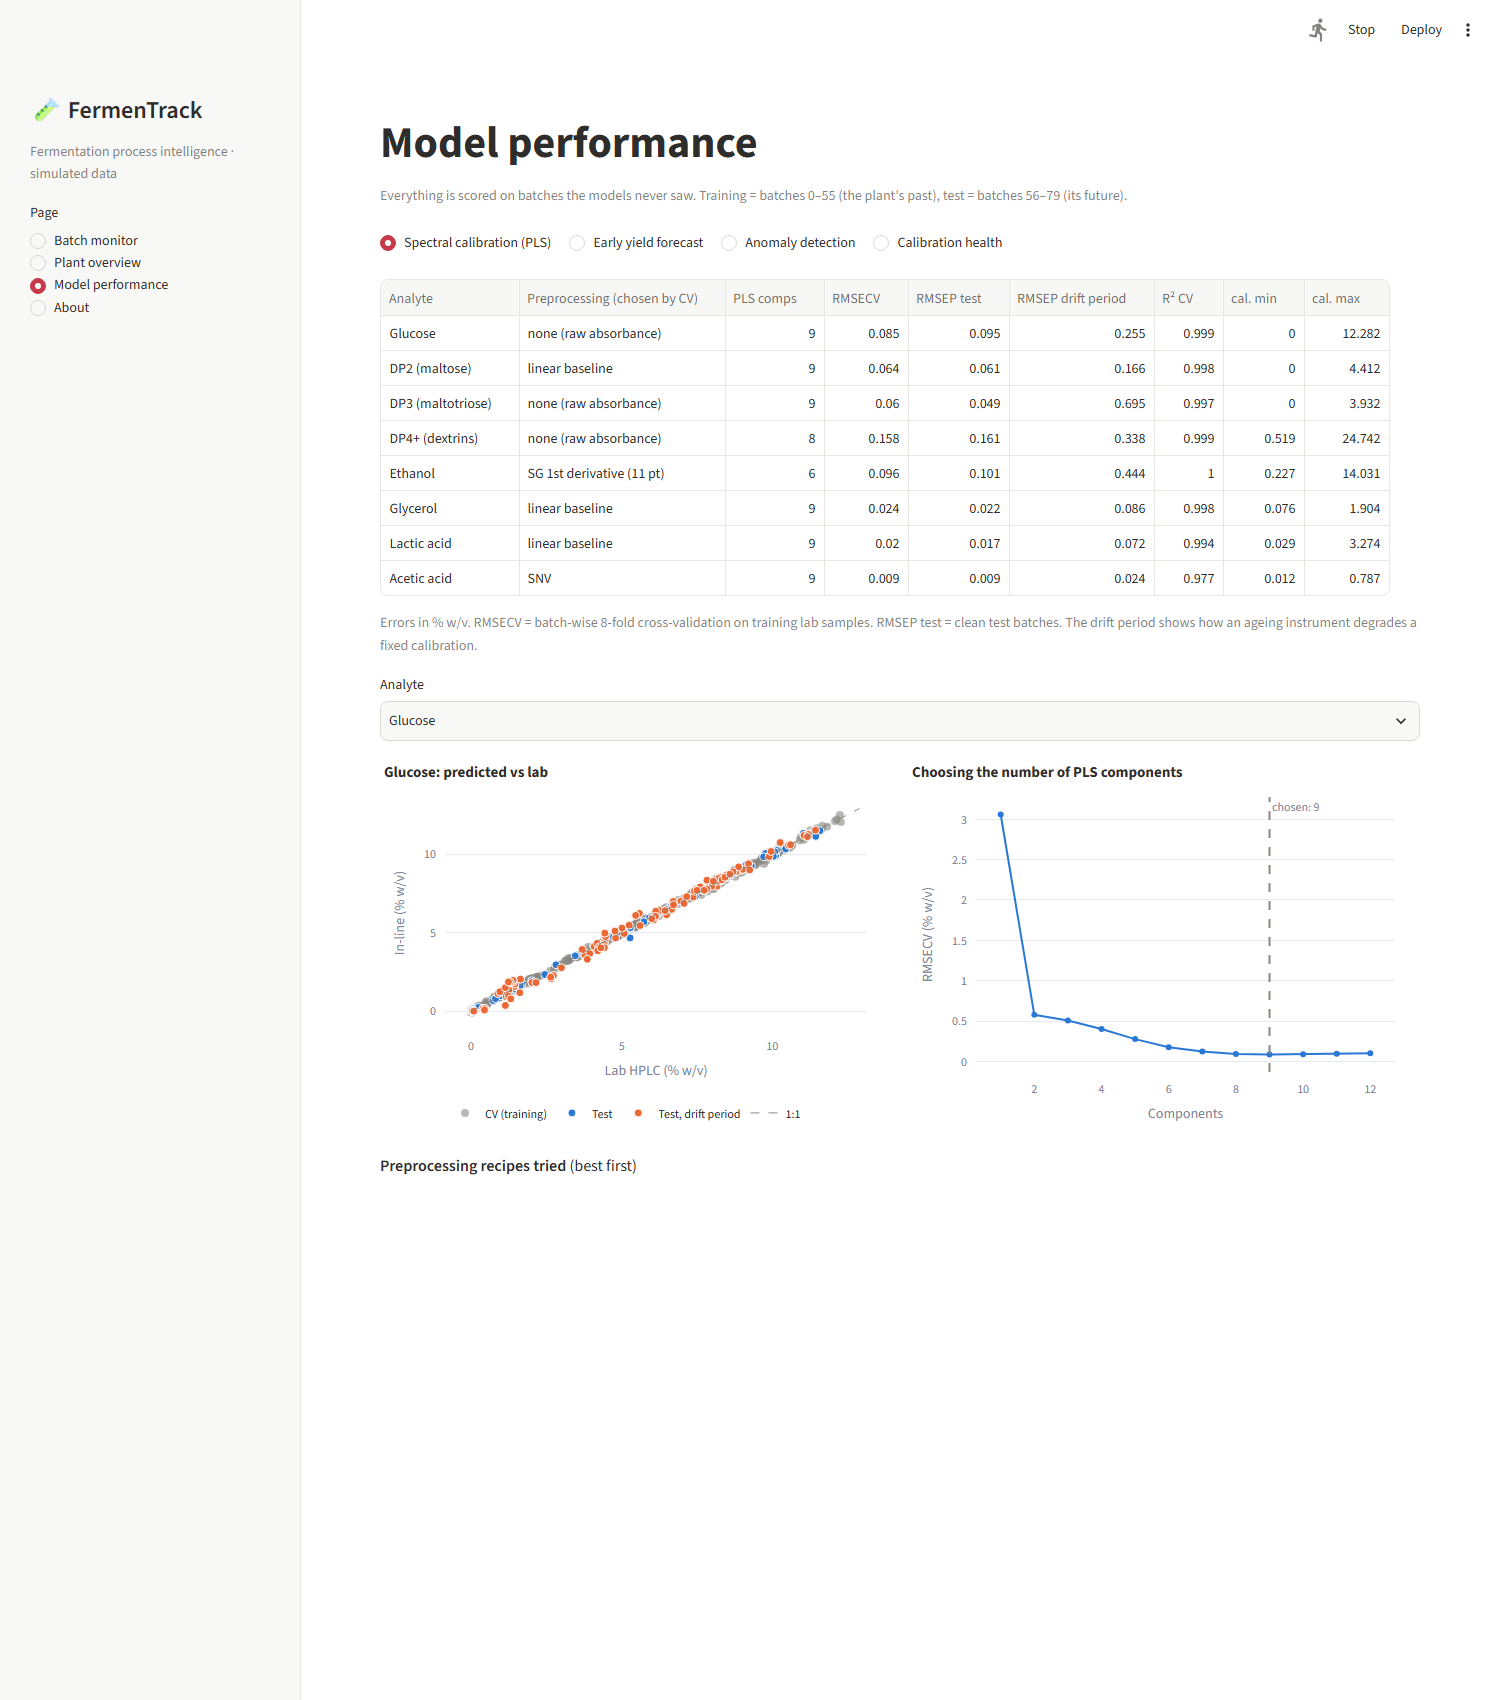
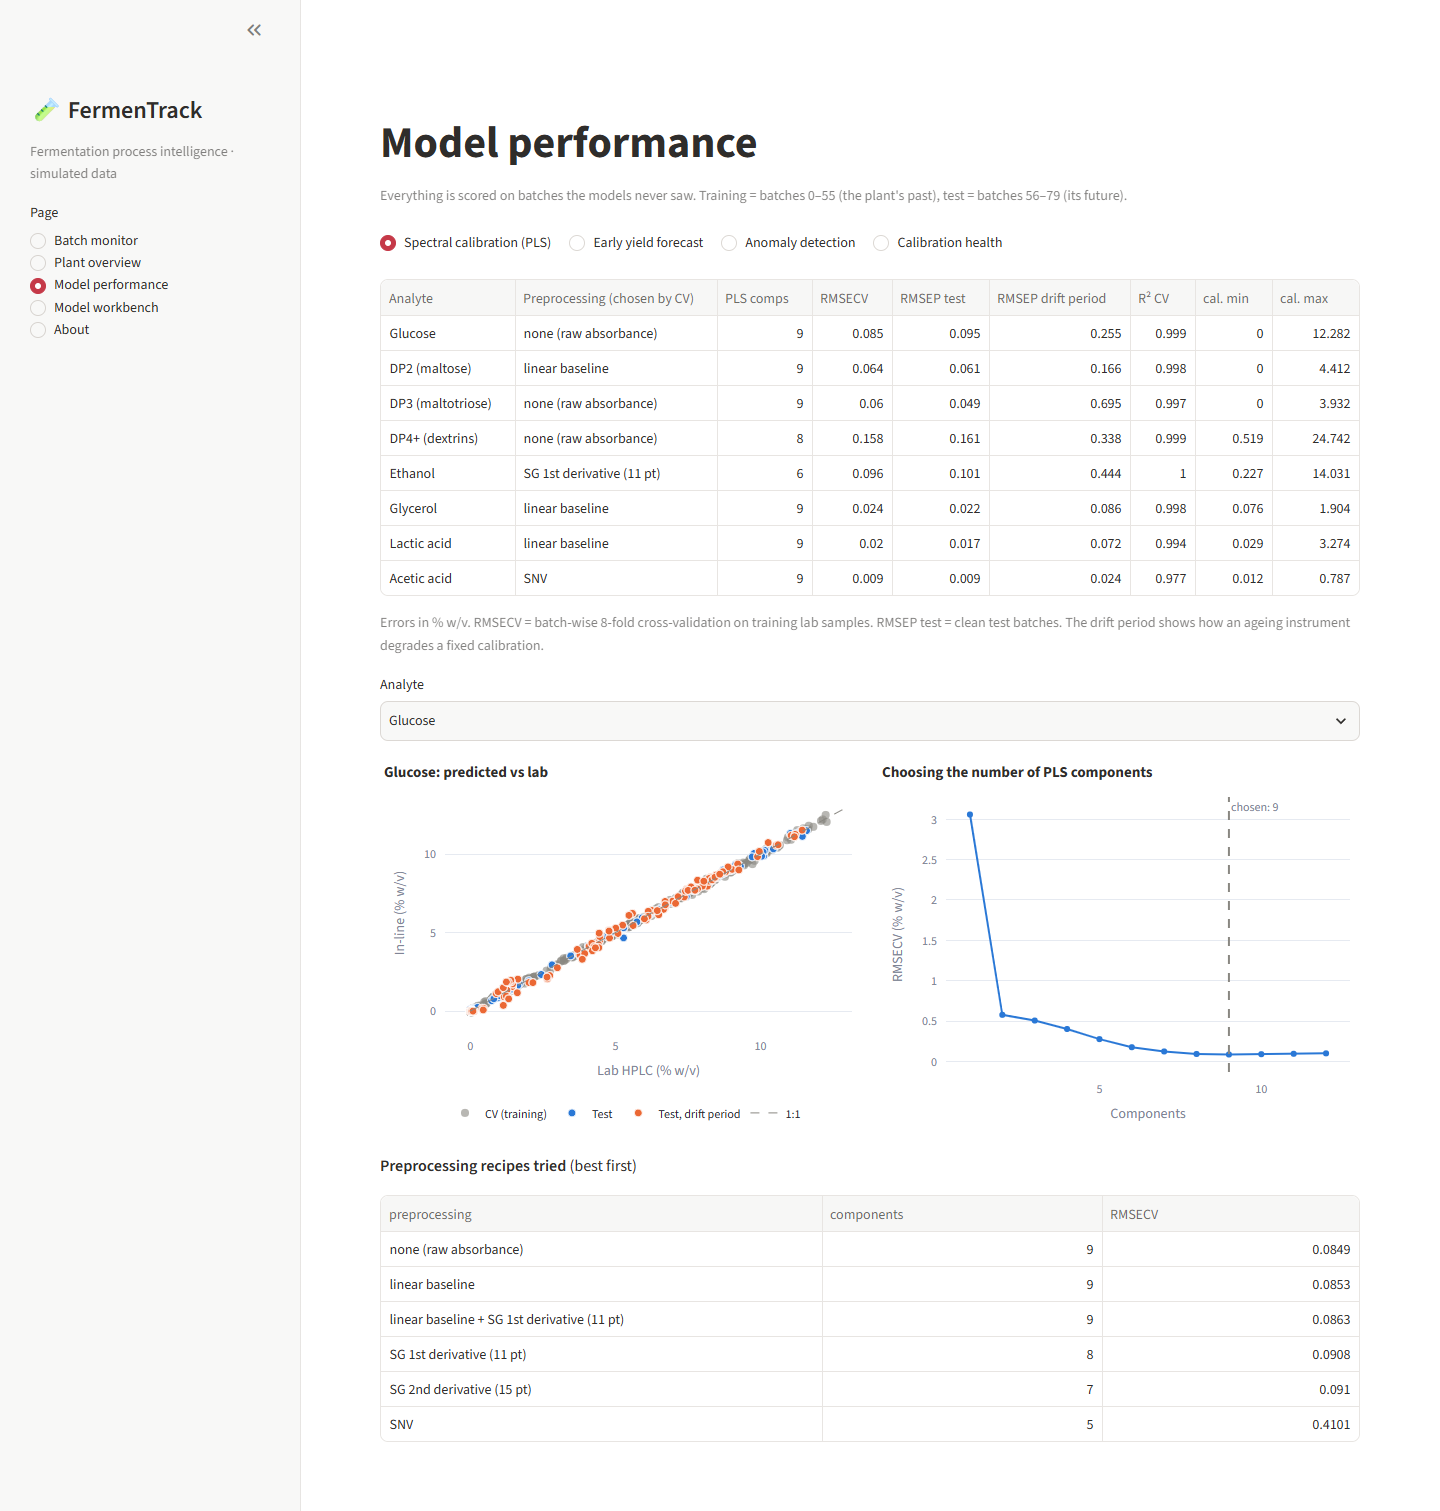
Retake all screenshots fully loaded; add workbench screenshots; refine outlier rules
- docs/make_screenshots.py: Playwright + installed Edge, waits until every page has
  finished, clicks through the workbench journey, uses a temporary model registry
- All dashboard screenshots retaken (old ones were captured mid-load and outdated)
- Workbench screenshots added to README and user guide
- Outliers: high T² but well predicted = keep (warning only); residual limit scales
  with sample count; Q outlier only above 2x its limit; table shows T²/Q as x limit
- Registry path shown without personal folder names; FERMENTRACK_REGISTRY env var
- Check-history chart uses whole check numbers

diff --git a/docs/make_screenshots.py b/docs/make_screenshots.py
@@ -1,0 +1,171 @@
+"""Regenerate every screenshot in docs/screenshots/.
+
+    python docs/make_screenshots.py
+
+Starts its own copies of the dashboard and the workbench (ports 8611 / 8612, with a
+temporary model registry so your real models are not touched), opens them in the
+Microsoft Edge that comes with Windows (via Playwright), waits until each page has
+completely finished running, clicks through the workbench where a step needs
+results, and saves full-page PNGs.
+
+Needs:  pip install playwright   (no extra browser download: it uses the installed Edge)
+"""
+from __future__ import annotations
+
+import os
+import subprocess
+import sys
+import tempfile
+import time
+import urllib.request
+from pathlib import Path
+
+from playwright.sync_api import Page, sync_playwright
+
+ROOT = Path(__file__).resolve().parents[1]
+OUT = ROOT / "docs" / "screenshots"
+DASH, WB = "http://localhost:8611", "http://localhost:8612"
+WIDTH = 1440
+
+
+# ---------------------------------------------------------------------------
+# servers
+# ---------------------------------------------------------------------------
+def start_server(script: str, port: int, env) -> subprocess.Popen:
+    cmd = [sys.executable, "-m", "streamlit", "run", str(ROOT / script), "--server.headless", "true",
+           "--server.port", str(port), "--browser.gatherUsageStats", "false",
+           "--client.toolbarMode", "minimal", "--theme.base", "light"]
+    proc = subprocess.Popen(cmd, cwd=ROOT, env=env, stdout=subprocess.DEVNULL, stderr=subprocess.DEVNULL)
+    for _ in range(120):
+        try:
+            urllib.request.urlopen(f"http://localhost:{port}/_stcore/health", timeout=1)
+            return proc
+        except Exception:
+            time.sleep(0.5)
+    proc.kill()
+    raise RuntimeError(f"{script} did not start")
+
+
+# ---------------------------------------------------------------------------
+# waiting and capturing
+# ---------------------------------------------------------------------------
+def wait_ready(page: Page, timeout=180):
+    """Wait until Streamlit has finished running (no 'Running...' widget for 2 s in a row)."""
+    page.wait_for_selector('[data-testid="stApp"]', timeout=timeout * 1000)
+    end, quiet_since = time.time() + timeout, None
+    while time.time() < end:
+        running = page.locator('[data-testid="stStatusWidget"]').count() > 0
+        stale = page.locator('[data-stale="true"]').count() > 0
+        if running or stale:
+            quiet_since = None
+        elif quiet_since is None:
+            quiet_since = time.time()
+        elif time.time() - quiet_since > 2.0:
+            break
+        time.sleep(0.25)
+    page.wait_for_timeout(1500)          # let plotly finish drawing
+
+
+def shot(page: Page, name: str):
+    """Full-height screenshot.
+
+    Streamlit scrolls inside an inner container, so a normal full-page capture only shows
+    one screen. Instead: make the window very tall so everything is drawn, measure where
+    the content really ends, shrink the window to exactly that height, then capture.
+    """
+    page.set_viewport_size({"width": WIDTH, "height": 5000})
+    page.wait_for_timeout(1500)
+    wait_ready(page, 60)
+    bottom = page.evaluate("""() => {
+        const c = document.querySelector('[data-testid="stMainBlockContainer"]');
+        if (!c) return document.body.scrollHeight;
+        let b = 0;
+        c.querySelectorAll('*').forEach(e => {        // only what is really visible
+            if (!e.checkVisibility({checkOpacity: true, checkVisibilityCSS: true})) return;
+            const r = e.getBoundingClientRect();
+            if (r.height > 0) b = Math.max(b, r.bottom); });
+        return Math.ceil(b);
+    }""")
+    page.set_viewport_size({"width": WIDTH, "height": min(max(bottom + 60, 900), 5000)})
+    page.mouse.move(5, 5)                 # keep chart toolbars / tooltips out of the picture
+    page.wait_for_timeout(2000)
+    wait_ready(page, 60)
+    page.screenshot(path=str(OUT / f"{name}.png"))
+    page.set_viewport_size({"width": WIDTH, "height": 900})
+    print("saved", name, bottom)
+
+
+def goto(page: Page, url: str):
+    page.goto(url)
+    wait_ready(page)
+
+
+def click(page: Page, text: str, exact=True):
+    page.get_by_text(text, exact=exact).first.click()
+    wait_ready(page)
+
+
+def button(page: Page, label: str):
+    page.get_by_role("button", name=label).first.click()
+    wait_ready(page)
+
+
+# ---------------------------------------------------------------------------
+def main():
+    OUT.mkdir(parents=True, exist_ok=True)
+    env = dict(os.environ, FERMENTRACK_REGISTRY=tempfile.mkdtemp(prefix="ft_registry_"))
+    servers = [start_server("app.py", 8611, env), start_server("workbench_app.py", 8612, env)]
+    try:
+        with sync_playwright() as p:
+            browser = p.chromium.launch(channel="msedge")
+            page = browser.new_page(viewport={"width": WIDTH, "height": 900})
+
+            # --- dashboard ---------------------------------------------------------
+            goto(page, f"{DASH}/?page=monitor&batch=68&t=36")
+            shot(page, "batch_monitor")
+            goto(page, f"{DASH}/?page=monitor&batch=62&t=40")
+            shot(page, "probe_fouling")
+            goto(page, f"{DASH}/?page=overview")
+            shot(page, "plant_overview")
+            goto(page, f"{DASH}/?page=performance&section=pls")
+            shot(page, "pls_calibration")
+            goto(page, f"{DASH}/?page=performance&section=yield")
+            shot(page, "yield_forecast")
+
+            # --- workbench ---------------------------------------------------------
+            goto(page, f"{WB}/")                                   # data step + format help
+            shot(page, "wb_data")
+            for step in ["spectra", "split"]:
+                goto(page, f"{WB}/?demo=1&step={step}")
+                shot(page, f"wb_{step}")
+
+            # one user journey in one session: find outliers -> remove them -> look at the
+            # cleaned model -> robustness -> save -> check healthy data -> check drifting data
+            goto(page, f"{WB}/?demo=1&step=outliers")
+            shot(page, "wb_outliers")
+            button(page, "Exclude ticked samples and re-fit")
+            click(page, "4 Model")
+            shot(page, "wb_model")
+            click(page, "6 Robustness")
+            for b in ["Run perturbation test", "Run resampling test", "Run y-randomisation"]:
+                button(page, b)
+            shot(page, "wb_robustness")
+            click(page, "7 Save & update")
+            button(page, "Save as new version")
+            click(page, "8 Auto-check")
+            click(page, "ftir_new_lab_ok.xlsx")
+            button(page, "Run check")
+            click(page, "ftir_new_lab_drift.xlsx")
+            click(page, "Allow automatic update (saves a better version if action is needed)")
+            button(page, "Run check")
+            shot(page, "wb_autocheck")
+            click(page, "7 Save & update")
+            shot(page, "wb_registry")
+            browser.close()
+    finally:
+        for s in servers:
+            s.terminate()
+
+
+if __name__ == "__main__":
+    main()

diff --git a/fermentrack/workbench/diagnostics.py b/fermentrack/workbench/diagnostics.py
@@ -10,8 +10,13 @@ Three independent questions, each with its own statistic:
                   describe at all? (contamination, fouling, wrong sample, air bubble)
 * Studentised residual - is the *reference value* suspicious? The prediction
                   (from cross-validation, i.e. without that sample) disagrees with
-                  the lab value by more than ~3 typical errors: a typing mistake
-                  or a bad lab measurement.
+                  the lab value by more than ~3 typical errors (more for large sets,
+                  where a few such values occur by chance): a typing mistake or a
+                  bad lab measurement.
+
+Outlier = strong evidence (residual beyond the limit, or Q more than twice its limit,
+or extreme AND badly predicted). A sample that is extreme but predicted well is
+kept: it is valuable because it extends the calibration range.
 
 Limits are 95 % (warning) and 99 % (action). A sample above the action limit is
 a candidate for removal, but the decision stays with the user: remove only with
@@ -81,29 +86,41 @@ def sample_diagnostics(model, X_raw, y=None, ids=None, use_cv=False) -> pd.DataF
 
     reasons, levels = [], []
     lo, hi = d["y_range"]
+    # Residual limit that accounts for the number of samples checked: with 240 samples a few
+    # |z| > 3 happen by chance alone (Bonferroni, 5 % family-wise, never below 3).
+    z_crit = max(3.0, float(sstats.norm.ppf(1 - 0.025 / max(len(out), 1))))
     for i in range(len(out)):
         r, level = [], 0
-        if t2[i] > d["t2_lim99"]:
-            r.append(f"extreme in model space (T² {t2[i]:.1f} > 99% limit {d['t2_lim99']:.1f})")
-            level = 2
+        # A high T² alone is NOT a reason to remove a sample: if it is predicted well it is an
+        # influential but valuable sample (it extends the range). It only becomes an outlier
+        # together with a large residual (checked below).
+        extreme = t2[i] > d["t2_lim99"]
+        if extreme:
+            r.append(f"extreme in model space (T² {t2[i] / d['t2_lim99']:.1f}x the 99% limit)")
+            level = max(level, 1)
         elif t2[i] > d["t2_lim95"]:
             r.append("somewhat extreme (T² above 95% limit)")
             level = max(level, 1)
-        if q[i] > d["q_lim99"]:
+        if q[i] > 2 * d["q_lim99"]:
             r.append(f"spectrum not explained by the model (Q {q[i] / d['q_lim99']:.1f}x the 99% limit)")
             level = 2
+        elif q[i] > d["q_lim99"]:
+            r.append(f"unusual spectral residual (Q {q[i] / d['q_lim99']:.1f}x the 99% limit)")
+            level = max(level, 1)
         elif q[i] > d["q_lim95"]:
             r.append("unusual spectral residual (Q above 95% limit)")
             level = max(level, 1)
         if y is not None and not np.isnan(y[i]):
             s = out["stud_residual"].iat[i]
-            if abs(s) > 3:
+            if abs(s) > z_crit:
                 r.append(f"reference value disagrees with spectrum ({s:+.1f} typical errors) - "
                          f"check lab value / sample label")
                 level = 2
             elif abs(s) > 2.5:
                 r.append("large residual (> 2.5 typical errors)")
-                level = max(level, 1)
+                level = 2 if extreme else max(level, 1)       # extreme AND badly predicted
+            elif extreme:
+                r.append("but predicted well - usually keep (it extends the calibration range)")
         if pred[i] < lo - 0.1 * (hi - lo) or pred[i] > hi + 0.1 * (hi - lo):
             r.append("prediction outside the calibration range (extrapolation)")
             level = max(level, 1)

diff --git a/fermentrack/workbench/ui.py b/fermentrack/workbench/ui.py
@@ -120,6 +120,15 @@ def set_dataset(d: io.SpectralDataset):
     S()["wb_pipe"] = Pipeline().settings()
 
 
+def registry_label(root: Path) -> str:
+    """Registry location without personal parts of the path (shown on screen and in screenshots)."""
+    project = Path(__file__).resolve().parents[2]
+    try:
+        return str(Path(root).resolve().relative_to(project)).replace("\\", "/") + "/"
+    except ValueError:
+        return Path(root).name + "/  (set by FERMENTRACK_REGISTRY)"
+
+
 def flash(msg):
     """Show a success message after the page reloads (st.rerun would erase it otherwise)."""
     S()["wb_flash"] = msg
@@ -639,14 +648,16 @@ def step_outliers():
     if flagged.empty:
         st.success("No sample is above the 95 % limits.")
         return
-    tab = flagged[["sample_id", "set", "status", "reference", "predicted", "T2", "Q",
-                   "stud_residual", "reason"]].copy()
+    tab = flagged[["sample_id", "set", "status", "reference", "predicted", "stud_residual", "reason"]].copy()
+    tab.insert(5, "T² / limit", (flagged.T2 / lim["t2_lim99"]).to_numpy())
+    tab.insert(6, "Q / limit", (flagged.Q / lim["q_lim99"]).to_numpy())
     # pre-tick only strong evidence; borderline cases are listed for the user's judgement
-    strong = ((tab.stud_residual.abs() > 3) | (tab.Q > 2 * lim["q_lim99"]) | (tab.T2 > 2 * lim["t2_lim99"]))
-    tab.insert(0, "Exclude", strong.to_numpy())
-    st.caption("Pre-ticked: strong evidence only (residual > 3 typical errors, or Q / T² more than twice "
-               "the 99 % limit). Borderline samples are listed for your judgement - a whole batch just "
-               "above the limit is usually real variation the model should learn, not an outlier.")
+    tab.insert(0, "Exclude", (tab.status == "outlier").to_numpy())
+    st.caption("Pre-ticked = outliers with strong evidence: the lab value disagrees with the spectrum "
+               "(residual beyond ~3 typical errors, a little more for large data sets) or the spectrum "
+               "contains something unknown (Q more than twice its 99 % limit). A sample that is extreme "
+               "(high T²) but predicted well is kept - it extends the range. Warnings are for your "
+               "judgement. Do one cleaning round: repeating it removes good samples from the normal tail.")
     ed = st.data_editor(tab.round(4), hide_index=True, width="stretch",
                         disabled=[c for c in tab.columns if c != "Exclude"], key="wb_out_editor")
     if st.button("Exclude ticked samples and re-fit", type="primary"):
@@ -758,7 +769,7 @@ def step_robustness():
 def step_registry():
     st.header("7 · Save & update models")
     root = registry.DEFAULT_ROOT
-    st.caption(f"Models are stored as numbered versions in `{root}`.")
+    st.caption(f"Models are stored as numbered versions in `{registry_label(root)}`.")
 
     st.subheader("Save the current model")
     m = S().get("wb_model")
@@ -878,6 +889,7 @@ def step_autocheck():
                                  name="bias", line=dict(color=ORANGE, width=2)))
         fig.add_trace(go.Scatter(x=list(range(1, len(h) + 1)), y=h.expected_RMSE, mode="lines",
                                  name="promised (RMSECV)", line=dict(color=MUTED, dash="dash")))
+        fig.update_xaxes(dtick=1)                        # whole check numbers only
         show(layout(fig, f"{name}: error at each check", "error", "check number", 300))
         st.dataframe(h.drop(columns=["model"], errors="ignore").round(4), hide_index=True,
                      width="stretch")

diff --git a/fermentrack/workbench/registry.py b/fermentrack/workbench/registry.py
@@ -25,6 +25,7 @@ and not worse on the original validation set.
 from __future__ import annotations
 
 import json
+import os
 import pickle
 import re
 from dataclasses import dataclass, field
@@ -38,7 +39,9 @@ from .models import FittedModel, ModelSpec, fit_model, regression_stats
 from .preprocess import Pipeline
 from .split import by_order
 
-DEFAULT_ROOT = Path(__file__).resolve().parents[2] / "model_registry"
+# set FERMENTRACK_REGISTRY to keep models somewhere else (e.g. a shared drive, or a temp folder)
+DEFAULT_ROOT = Path(os.environ.get("FERMENTRACK_REGISTRY",
+                                   Path(__file__).resolve().parents[2] / "model_registry"))
 
 
 @dataclass

diff --git a/README.md b/README.md
@@ -235,6 +235,16 @@ from your own FTIR (or NIR) spectra and lab/physical measurements. Open it with
 | 7 Save & update | Save a version; update it with new lab-checked samples | Versioned registry with model cards (settings, statistics, data hash, exclusions). Update candidates: *bias update* or *refit with old + new samples*, judged on new samples they never saw |
 | 8 Auto-check | Check a saved model against new lab results | OK / WARNING / ACTION from accuracy vs promise, bias t-test, EWMA drift across checks and spectra outside the model, plus the likely fix. Optional automatic update |
 
+![Workbench: data step with format help and templates](docs/screenshots/wb_data.png)
+
+![Workbench: outliers with reasons](docs/screenshots/wb_outliers.png)
+
+![Workbench: cleaned model](docs/screenshots/wb_model.png)
+
+![Workbench: robustness tests](docs/screenshots/wb_robustness.png)
+
+![Workbench: automatic validation](docs/screenshots/wb_autocheck.png)
+
 **PLS-ANN.** The neural network does not see raw spectra (hundreds of correlated points, few
 samples, so it would overfit). It sees the first *k* PLS scores, a compact, noise-reduced summary,
 and can then model curvature PLS cannot. An ensemble of small networks gives a spread
@@ -243,7 +253,7 @@ the tests).
 
 **Try it on the examples.** `examples/ftir_calibration.xlsx` contains three planted problems: a
 fouled-probe spectrum, a decimal-point typing error and two swapped labels. The outlier step
-flags exactly these. Removing them takes ethanol RMSECV from **1.18 to 0.10 % w/v**
+flags these (plus one sample the weak first model predicts badly). Removing them takes ethanol RMSECV from **1.18 to 0.10 % w/v**
 (validation 0.10), and the model goes from 2 to 8 PLS components. Then save the model and run the
 auto-check with `ftir_new_lab_ok.xlsx` (→ OK) and `ftir_new_lab_drift.xlsx` (→ ACTION; the
 automatic update refits with the new samples and brings the error back to ~0.10).

diff --git a/docs/USER_GUIDE.md b/docs/USER_GUIDE.md
@@ -63,6 +63,10 @@ You do not need to browse for these: steps 1, 7 and 8 each have an *example* opt
    Then `ftir_new_lab_drift.xlsx` with *Allow automatic update* ticked → **ACTION** →
    a better version `v002` is saved and activated.
 
+![Outlier step](screenshots/wb_outliers.png)
+
+![Auto-check step](screenshots/wb_autocheck.png)
+
 ### What each step does
 
 | Step | You do | Good to know |
@@ -77,6 +81,9 @@ You do not need to browse for these: steps 1, 7 and 8 each have an *example* opt
 | **8 Auto-check** | Pick a model, give new lab results → **Run check** | Verdict **OK / WARNING / ACTION** with findings and the likely fix. The history chart shows every check. With *Allow automatic update*, a new version is activated only if it is better on held-out new samples and not worse on the original validation. |
 
 ### Preparing your own data
+
+![Data step with format help](screenshots/wb_data.png)
+
 
 Your data = **one spectrum per sample** + **lab / physical values** for the same samples.
 Every sample needs a **unique `sample_id`**; this is how a lab value finds its spectrum.

diff --git a/CHANGELOG.md b/CHANGELOG.md
@@ -1,5 +1,11 @@
 # Changelog
 
+## 2026-11-16: Screenshots and outlier rules
+
+* All screenshots retaken after the pages finished loading (`docs/make_screenshots.py`, Playwright + Edge); Workbench screenshots added to the README and guide.
+* Outlier rules: a sample that is extreme (high T²) but predicted well is kept; residual limit accounts for the number of samples; Q only counts as an outlier above twice its limit. T² and Q shown as "× limit".
+* The registry location is shown without personal path parts; `FERMENTRACK_REGISTRY` can move it.
+
 ## 2026-11-16: Data preparation
 
 * Import of **one file per spectrum** (the usual FTIR export): header lines, comma / semicolon / tab separators and decimal commas understood; spectra on different wavenumber grids are aligned; the file name becomes the sample id.
